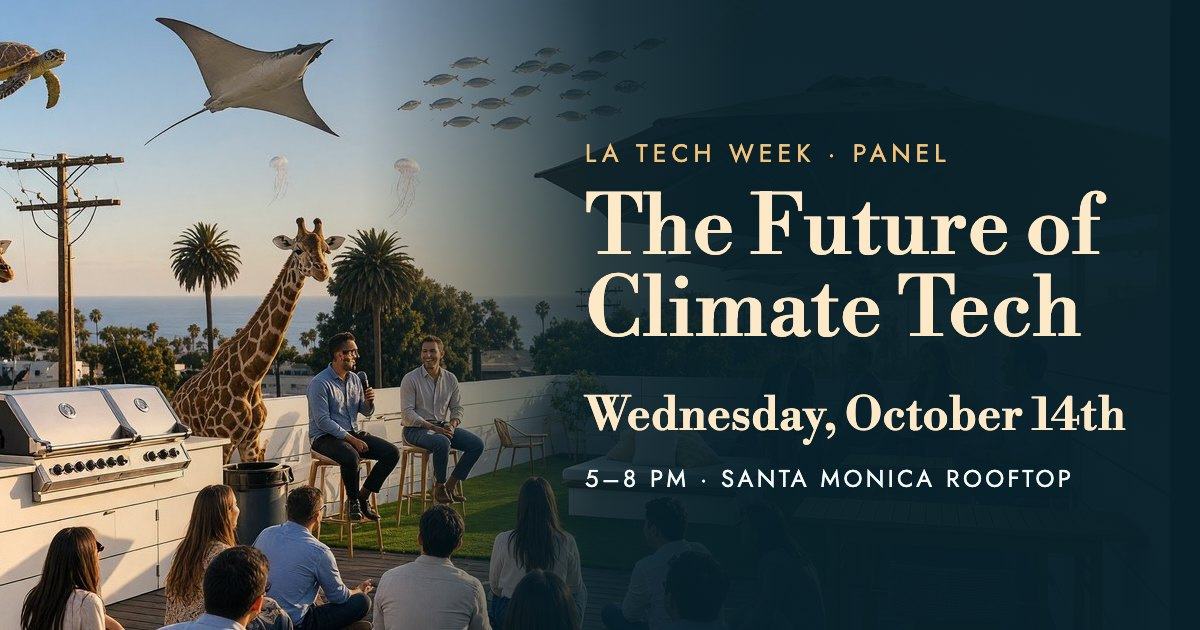
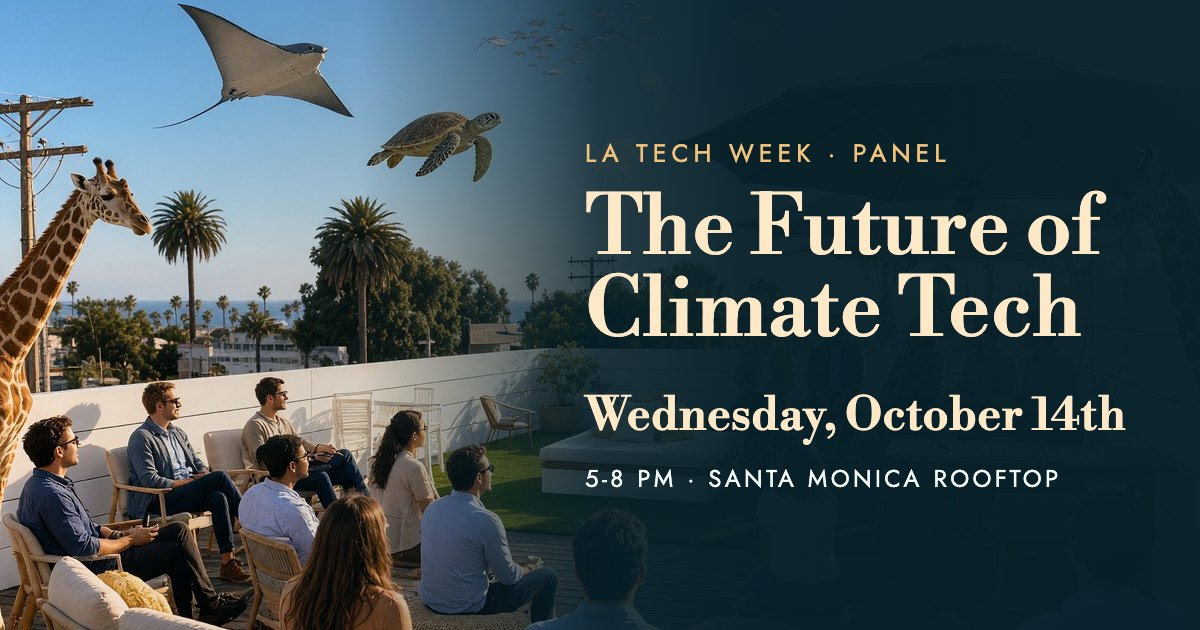
Climate Tech share card: new hero, hosts, no dashes

diff --git a/climate-oct-14/index.html b/climate-oct-14/index.html
@@ -8,17 +8,17 @@
 <meta property="og:type" content="website">
 <meta property="og:site_name" content="The Oasis">
 <meta property="og:title" content="The Future of Climate Tech · LA Tech Week">
-<meta property="og:description" content="Wednesday, October 14th, 5-8 PM on a Santa Monica rooftop. A panel of founders, investors and scientists on turning the tide. Free, 60 spots, request to join.">
+<meta property="og:description" content="Wednesday, October 14th, 5-8 PM on a Santa Monica rooftop. Hosted by Matthew, Rachel and Max. A panel of founders, investors and scientists on turning the tide. Free, 60 spots, request to join.">
 <meta property="og:url" content="https://grateful.gg/climate-oct-14/">
 <meta property="og:image" content="https://grateful.gg/climate-oct-14/cover.jpg">
 <meta property="og:image:secure_url" content="https://grateful.gg/climate-oct-14/cover.jpg">
 <meta property="og:image:type" content="image/jpeg">
 <meta property="og:image:width" content="1200">
 <meta property="og:image:height" content="630">
-<meta property="og:image:alt" content="The Future of Climate Tech - LA Tech Week panel, Wednesday October 14th, 5-8 PM, Santa Monica rooftop">
+<meta property="og:image:alt" content="The Future of Climate Tech, LA Tech Week panel, Wednesday October 14th, 5-8 PM, Santa Monica rooftop">
 <meta name="twitter:card" content="summary_large_image">
 <meta name="twitter:title" content="The Future of Climate Tech · LA Tech Week">
-<meta name="twitter:description" content="Wednesday, October 14th, 5-8 PM on a Santa Monica rooftop. A panel of founders, investors and scientists on turning the tide. Free, 60 spots, request to join.">
+<meta name="twitter:description" content="Wednesday, October 14th, 5-8 PM on a Santa Monica rooftop. Hosted by Matthew, Rachel and Max. A panel of founders, investors and scientists on turning the tide. Free, 60 spots, request to join.">
 <meta name="twitter:image" content="https://grateful.gg/climate-oct-14/cover.jpg">
 
 <!-- Humans go to the real page; crawlers read the tags above first. The card
@@ -44,8 +44,8 @@
 </head>
 <body>
   <main class="card">
-    <img src="https://grateful.gg/climate-oct-14/cover.jpg" alt="The Future of Climate Tech - LA Tech Week panel, Wednesday October 14th, 5-8 PM, Santa Monica rooftop" width="1200" height="630">
-    <div class="b"><h1>The Future of Climate Tech · LA Tech Week</h1><p>Wednesday, October 14th, 5-8 PM on a Santa Monica rooftop. A panel of founders, investors and scientists on turning the tide. Free, 60 spots, request to join.</p>
+    <img src="https://grateful.gg/climate-oct-14/cover.jpg" alt="The Future of Climate Tech, LA Tech Week panel, Wednesday October 14th, 5-8 PM, Santa Monica rooftop" width="1200" height="630">
+    <div class="b"><h1>The Future of Climate Tech · LA Tech Week</h1><p>Wednesday, October 14th, 5-8 PM on a Santa Monica rooftop. Hosted by Matthew, Rachel and Max. A panel of founders, investors and scientists on turning the tide. Free, 60 spots, request to join.</p>
     <a class="btn" href="https://app.grateful.gg/climate-oct-14">Open the event &rarr;</a></div>
   </main>
 </body>
